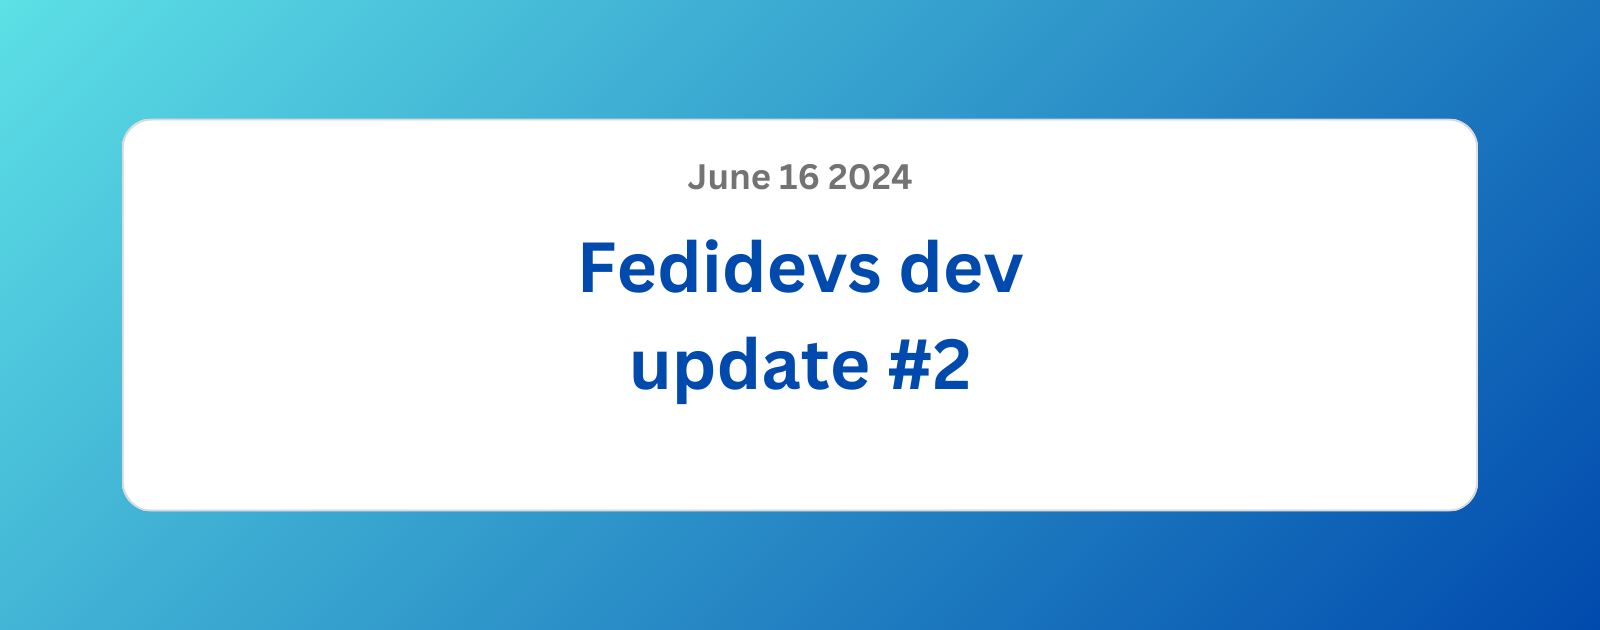
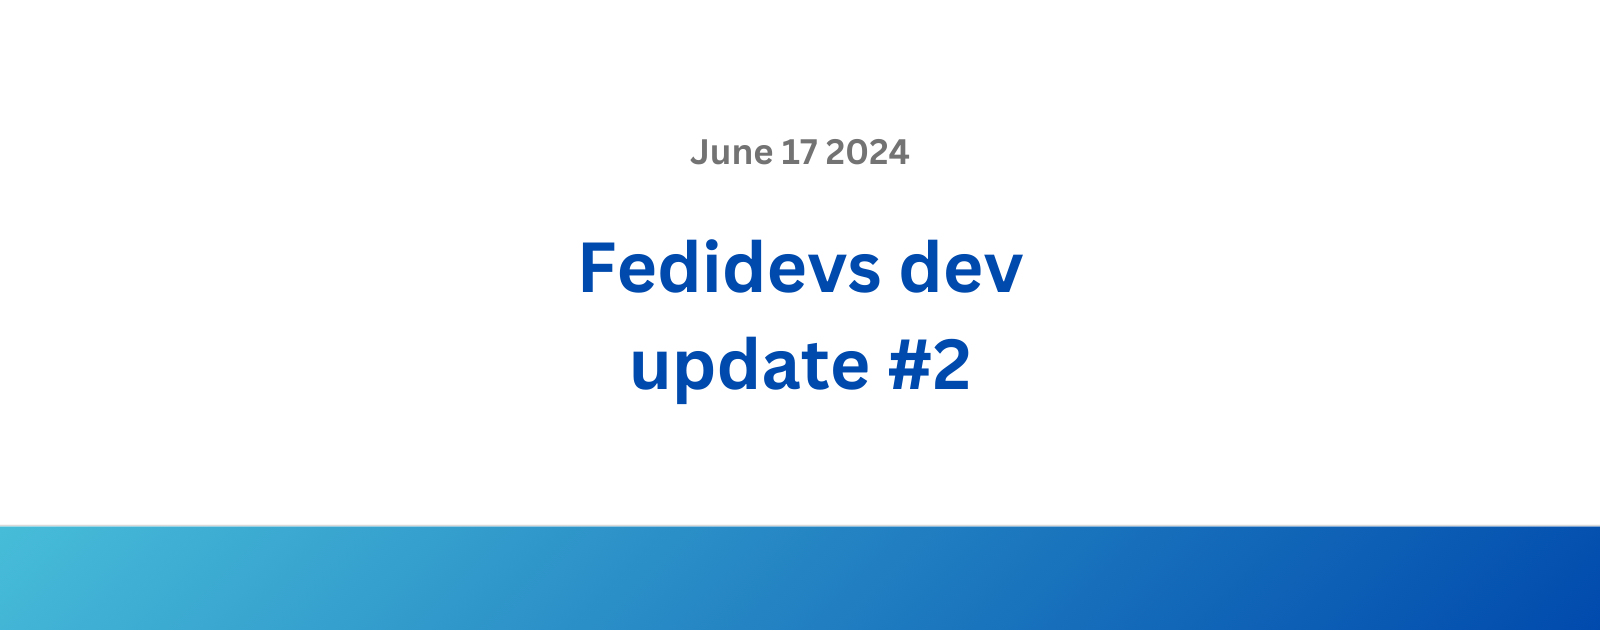
More updates

diff --git a/_posts/2024-06-14-fedidevs-update-2.md b/_posts/2024-06-14-fedidevs-update-2.md
@@ -1,7 +1,7 @@
 ---
-title: "Fedidevs Update #2"
+title: "Fedidevs dev update #2"
 description: "June update for fedidevs.com!"
-date: 2024-06-16 0:00:00 +0000
+date: 2024-06-17 0:00:00 +0000
 image: assets/cards/2024-06-16-fedidevs-update-2.png
 ---
 
